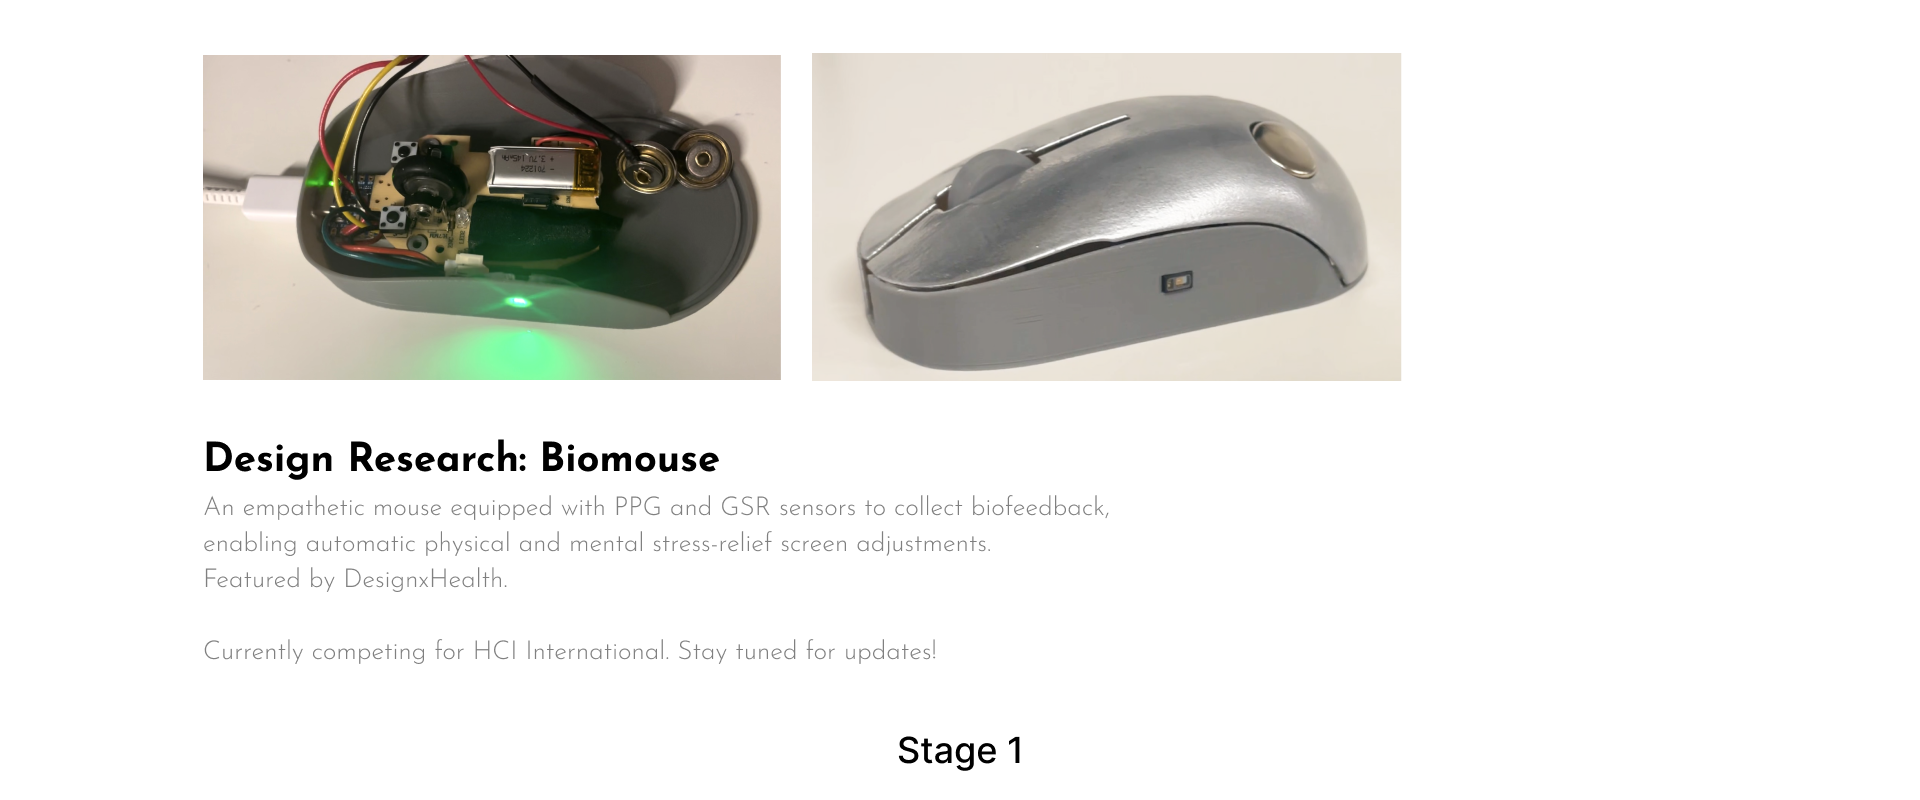
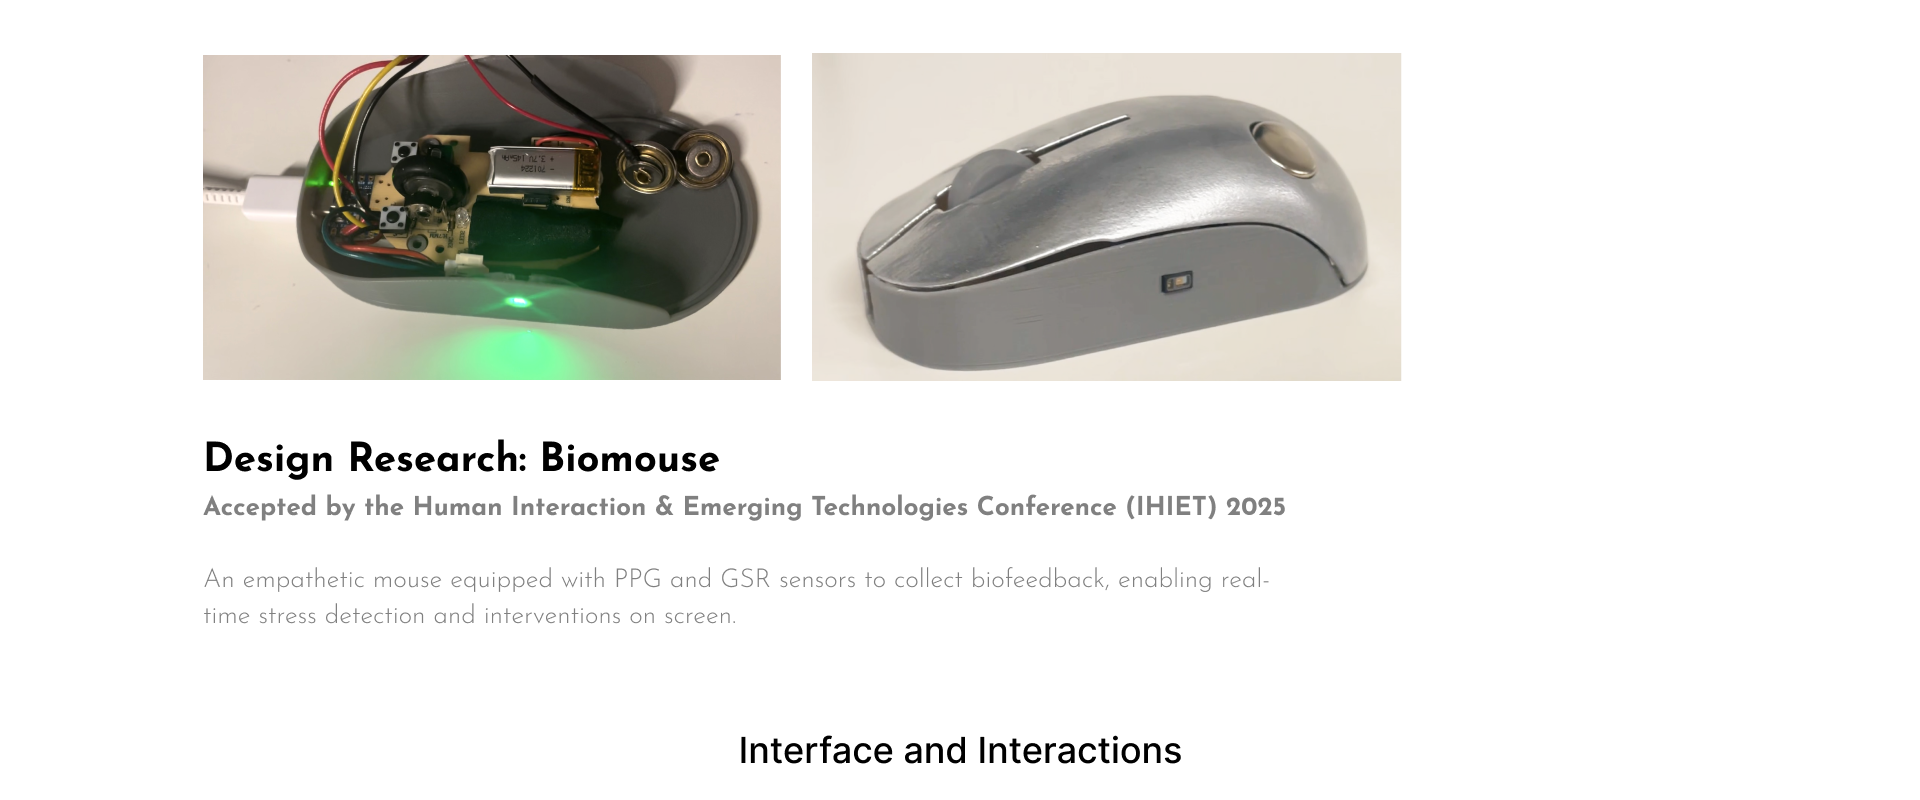
Updated project 1 with gifs

diff --git a/Project 1/index.html b/Project 1/index.html
@@ -71,6 +71,89 @@
 
     <img src="image/Biomouse1.png" alt="Biomouse">
 
+ <p class="project-text">
+Intervention Example: Notification Off
+    </p>
+
+<div class="project-row">
+
+    <div class="project-buttons">
+        <img src="image/Notification 1.png" alt="Notification 1" class="project-image">
+    </div>
+
+    <div class="project-buttons">
+        <img src="image/1 Reminder.gif" alt="1 Remindern" class="project-image">
+    </div>
+       
+    <div class="project-buttons">
+        <img src="image/2 Notification.gif" alt="2 Notification" class="project-image">
+    </div> 
+
+</div>
+
+<p class="project-text">
+    Intervention Example: Grounding Exercise
+</p>
+
+<div class="project-row">
+
+    <div class="project-buttons">
+        <img src="image/3 See.gif" alt="3 See" class="project-image">
+    </div>
+
+    <div class="project-buttons">
+        <img src="image/4 Touch.gif" alt="4 Touch" class="project-image">
+    </div>
+       
+    <div class="project-buttons">
+        <img src="image/5 Hear.gif" alt="5 Hear" class="project-image">
+    </div> 
+
+</div>
+
+<div class="project-row">
+
+    <div class="project-buttons">
+        <img src="image/6 Smell.gif" alt="6 Smell" class="project-image">
+    </div>
+
+    <div class="project-buttons">
+        <img src="image/7 Taste.gif" alt="7 Taste" class="project-image">
+    </div>
+       
+    <div class="project-buttons">
+        <img src="image/8 Post Grounding.gif" alt="8 Post Grounding" class="project-image">
+    </div> 
+
+</div>
+
+<p class="project-text">
+    Intervention Example: Breathing Exercise
+</p>
+
+<div class="project-row">
+
+    <div class="project-buttons">
+        <img src="image/Breathing 3.png" alt="Breathing 3" class="project-image">
+    </div>
+
+    <div class="project-buttons">
+        <img src="image/Breathing 7.png" alt="Breathing 7" class="project-image">
+    </div>
+       
+    <div class="project-buttons">
+        <img src="image/9 Breathing.gif" alt="9 Breathing" class="project-image">
+    </div> 
+
+</div>
+
+<img src="image/Biomouse2.png" alt="Biomouse">
+
+<p class="project-text">
+    Video Overview of the Entire Physical-UI System <br>
+Including mouse design, ML methodologies, and another intervention example.    
+</p>
+
     <div class="video-container">
         <video controls width="100%" >
             <source src="image/Design Research Mini.mp4" type="video/mp4">
@@ -78,7 +161,6 @@
         </video>
     </div>
     
-    <img src="image/Biomouse2.png" alt="Biomouse">
 
     <p class="project-text">
         Our research team consists of:<br>

diff --git a/index.html b/index.html
@@ -90,7 +90,7 @@
             <a href="Project 1/index.html" class="image-container">
                 <img src="image/Biomouse 320.gif" alt="Project 1 Button" class="project-image">
                 <div class="overlay">
-                    <span class="project-button-text">Design Research: Biomouse</span>
+                    <span class="project-button-text">HCI Research - IHIET Paper Accepted </span>
                     <span class="project-button-subtitle">physical+uiux | health tech | biosensing <br> AI/LM | behavior | cog sci</span>
                 </div>
             </a>
